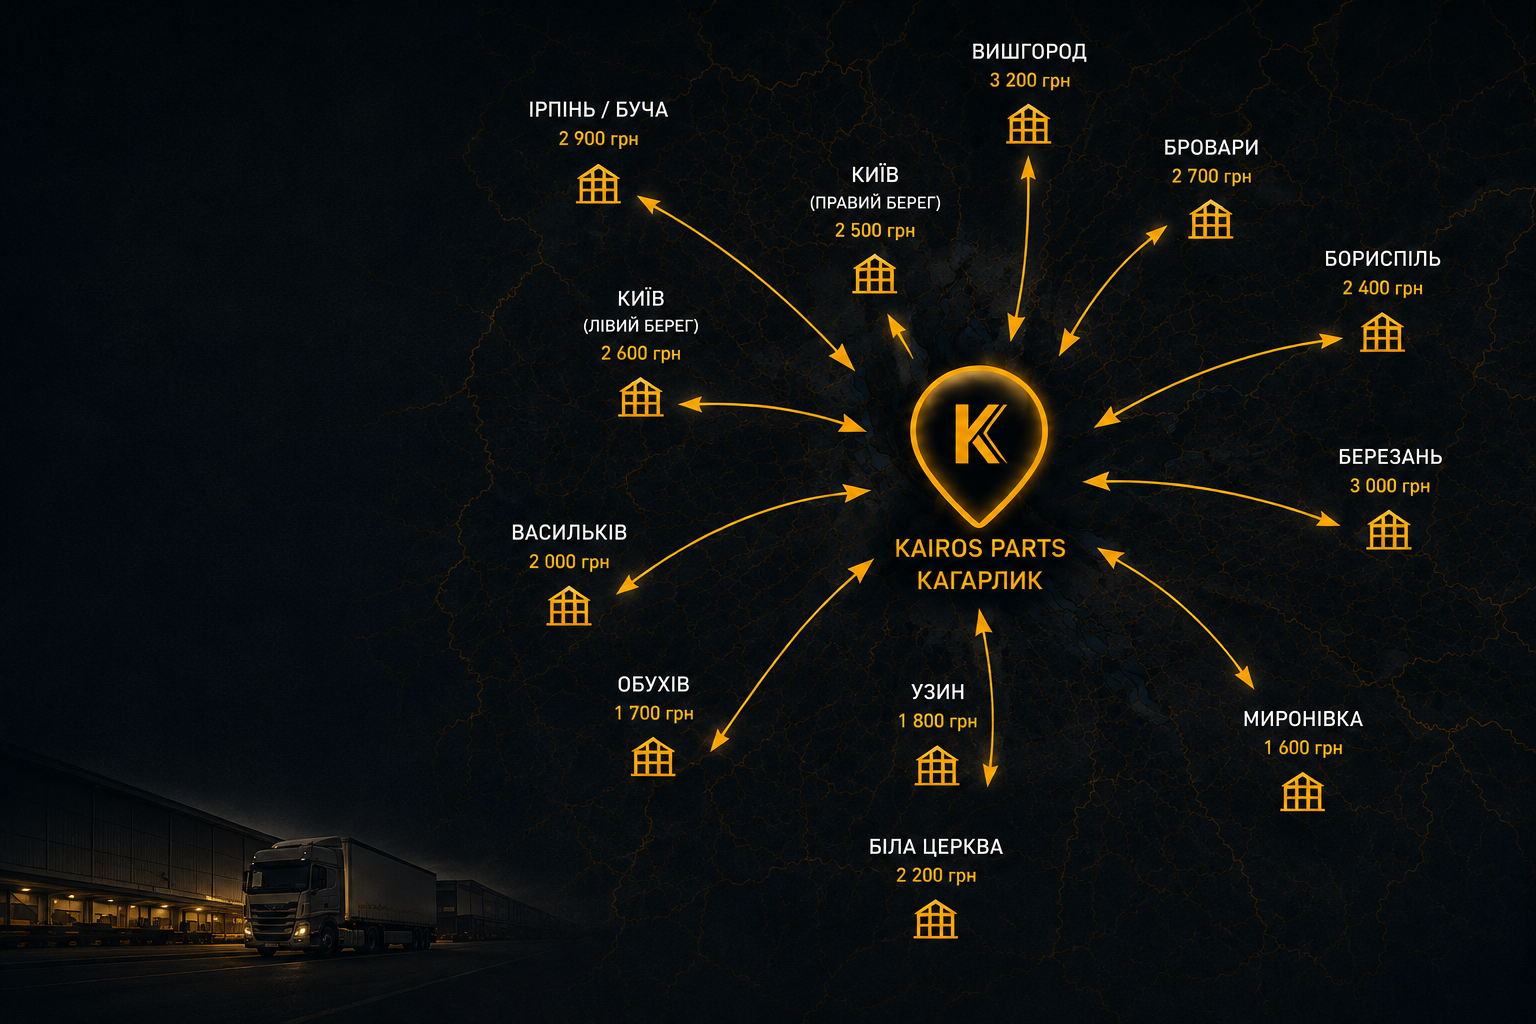
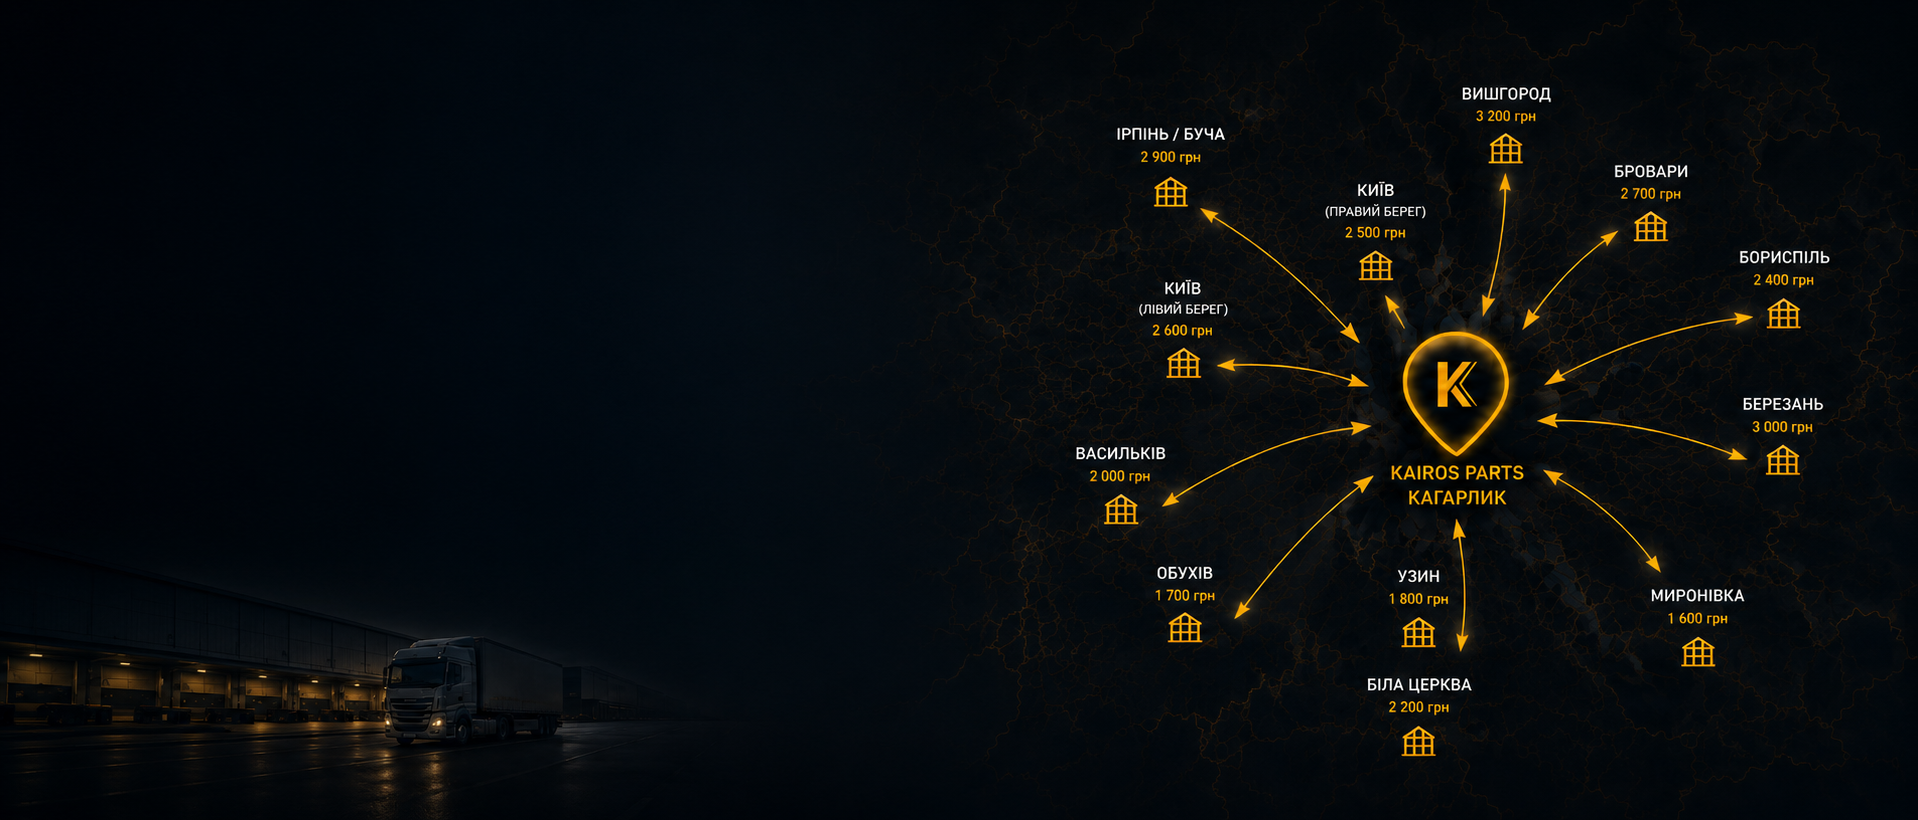
feat: update logistics hero and navigation

diff --git a/app/(public)/logistics/page.tsx b/app/(public)/logistics/page.tsx
@@ -4,7 +4,6 @@ import Link from 'next/link';
 import { notFound } from 'next/navigation';
 import { TbTruckDelivery } from 'react-icons/tb';
 
-import { LogisticsBenefitsBar } from '@/components/public/logistics/logistics-benefits-bar';
 import { LogisticsFinalCta } from '@/components/public/logistics/logistics-final-cta';
 import { LogisticsRatesSection } from '@/components/public/logistics/logistics-rates-section';
 import {
@@ -48,18 +47,18 @@ export default function LogisticsPage() {
         aria-labelledby="logistics-page-title"
         className="relative isolate min-h-[620px] overflow-hidden bg-primary text-white sm:min-h-[660px] lg:min-h-[700px]"
       >
-        <div className="relative isolate mx-auto w-full max-w-[1440px] overflow-hidden px-4 sm:px-6 lg:px-8">
-          <div className="absolute inset-y-0 left-[28%] right-0 -z-30 hidden md:block">
-            <Image
-              src="/images/logistics/hero-logistic.png"
-              alt=""
-              fill
-              priority
-              sizes="(min-width: 1440px) 1037px, 72vw"
-              className="object-contain object-right"
-            />
-          </div>
+        <div className="absolute inset-y-0 right-0 -z-30 hidden md:left-6 md:block lg:left-8 min-[1504px]:left-[calc((100vw-1440px)/2+2rem)]">
+          <Image
+            src="/images/logistics/hero-logistic.png"
+            alt=""
+            fill
+            priority
+            sizes="100vw"
+            className="object-contain object-left"
+          />
+        </div>
 
+        <div className="relative mx-auto w-full max-w-[1440px] px-4 sm:px-6 lg:px-8">
           <div className="relative min-h-[500px] py-14 sm:min-h-[540px] sm:py-16 md:flex md:items-center lg:min-h-[580px] lg:py-20">
             <div className="max-w-[600px] xl:max-w-[640px]">
               <p className="font-brand text-sm font-bold uppercase tracking-[0.2em] text-white sm:text-base">
@@ -69,12 +68,12 @@ export default function LogisticsPage() {
                 id="logistics-page-title"
                 className="mt-5 max-w-[720px] font-display text-4xl font-bold leading-[1.08] sm:text-5xl lg:text-[56px]"
               >
-                Професійне перевезення товарів для агропідприємств
+                Оперативне забезпечення підприємств критично важливими ТМЦ
               </h1>
               <p className="mt-6 max-w-[700px] text-base leading-7 text-white/80 sm:text-lg sm:leading-8">
-                Організовуємо відвантаження від постачальників Київської області та перевезення
-                товару до логістичного хабу Kairos Parts у Кагарлику. Ви отримаєте необхідні
-                запчастини та матеріали швидко, без простоїв та зайвих турбот.
+                Спеціалізований сервіс для агропідприємств Кагарлицького району. Забираємо товар у
+                будь-якого постачальника в межах Київської області та оперативно доставляємо до
+                Kairos Parts або безпосередньо на ваше підприємство.
               </p>
 
               <div className="mt-8 max-w-md">
@@ -92,8 +91,6 @@ export default function LogisticsPage() {
               />
             </div>
           </div>
-
-          <LogisticsBenefitsBar />
         </div>
       </section>
 

diff --git a/components/public/logistics/logistics-overview-section.tsx b/components/public/logistics/logistics-overview-section.tsx
@@ -52,7 +52,7 @@ const processSteps = [
   'Ви створюєте заявку на перевезення.',
   'Ми уточнюємо деталі, погоджуємо маршрут і вартість.',
   'Організовуємо відвантаження та забираємо підготовлений товар у постачальника.',
-  'Доставляємо товар до логістичної бази Kairos Parts у Кагарлику.'
+  'Доставляємо товар до логістичної бази Kairos Parts у Кагарлику або безпосередньо на ваше підприємство.'
 ];
 
 export function LogisticsOverviewPanel() {

diff --git a/components/layout/public-layout.tsx b/components/layout/public-layout.tsx
@@ -9,10 +9,10 @@ import { PublicDesktopNavigation } from './public-desktop-navigation';
 import { PublicMobileMenu } from './public-mobile-menu';
 
 const navItems = [
+  { href: '/about', label: 'Про нас' },
   { href: '/how-it-works', label: 'Як це працює' },
   { href: '/logistics', label: 'Логістика' },
   { href: '/used-equipment', label: 'БВ техніка' },
-  { href: '/about', label: 'Про нас' },
   { href: '/contacts', label: 'Контакти' }
 ];
 
